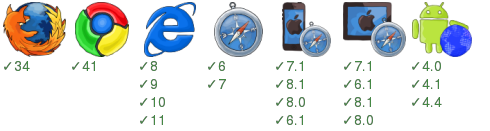
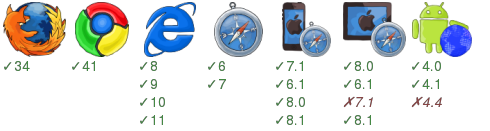
Auto commit smoke test results for 375764a9e0baf422aa22be6902c5570f979ea215 [ci skip]

diff --git a/examples/00hello/badge.html b/examples/00hello/badge.html
@@ -30,19 +30,19 @@ div{vertical-align:top;overflow:hidden;display:inline-block;width:92px;padding:4
 </div><div>
 <img src="/home/travis/build/zordius/fluxex/examples/00hello/node_modules/badge-render/browser-badge/static/iphone.png" />
 <p>&#x2713;7.1</p>
-<p>&#x2713;8.1</p>
-<p>&#x2713;8.0</p>
 <p>&#x2713;6.1</p>
+<p>&#x2713;8.0</p>
+<p>&#x2713;8.1</p>
 </div><div>
 <img src="/home/travis/build/zordius/fluxex/examples/00hello/node_modules/badge-render/browser-badge/static/ipad.png" />
-<p>&#x2713;7.1</p>
-<p>&#x2713;6.1</p>
-<p>&#x2713;8.1</p>
 <p>&#x2713;8.0</p>
+<p>&#x2713;6.1</p>
+<i>&#x2717;7.1</i>
+<p>&#x2713;8.1</p>
 </div><div>
 <img src="/home/travis/build/zordius/fluxex/examples/00hello/node_modules/badge-render/browser-badge/static/android-browser.png" />
 <p>&#x2713;4.0</p>
 <p>&#x2713;4.1</p>
-<p>&#x2713;4.4</p>
+<i>&#x2717;4.4</i>
 </div></body>
 </html>
